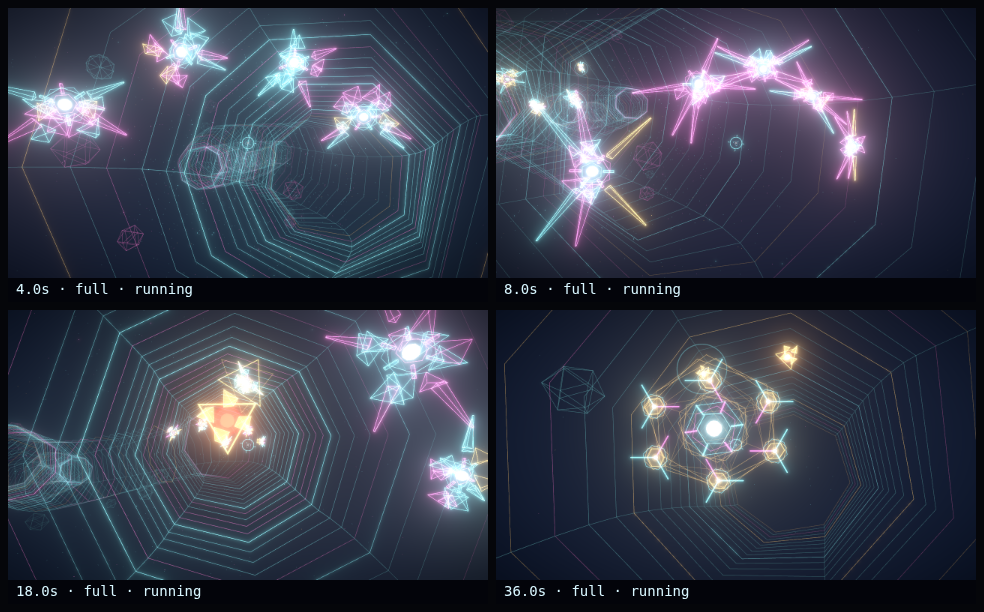
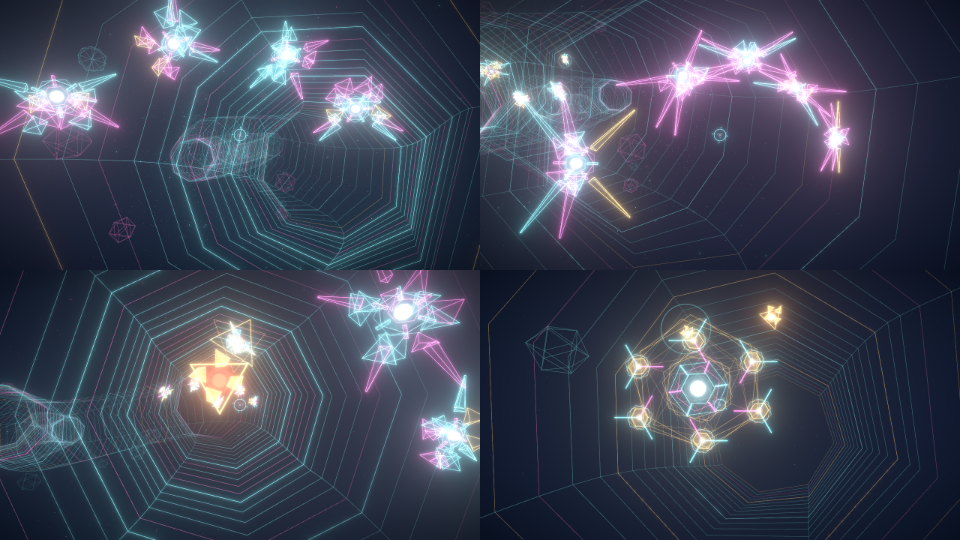
Add unlabeled gameplay thumbnail sheets

diff --git a/docs/visual-tools.md b/docs/visual-tools.md
@@ -151,12 +151,12 @@ By default the tool drives a simple perfect lock-on policy, then warns when a ta
 
 ## Level content image sets
 
-A public level showcase can carry three optional images: `overview` is a four-frame contact sheet, `start` is the attract screen, and `hero` is the strongest single gameplay frame. Store them under `public/level-content/<level-id>/` and expose their paths through `contentImages` on the level catalog metadata (or the benchmark `level.json` descriptor). For Crystal Corridor, the checked-in set is `public/level-content/crystal-corridor/`.
+A public level showcase can carry three optional images: `overview` is a four-frame contact sheet, `start` is the attract screen, and `hero` is the strongest single gameplay frame. Store them under `public/level-content/<level-id>/` and expose their paths through `contentImages` on the level catalog metadata (or the benchmark `level.json` descriptor). For an image-only contact sheet, add `--no-labels`; add `--no-borders` as well to remove the gutters between and around thumbnails. The default keeps timing, fidelity labels, and gutters for inspection. For Crystal Corridor, the checked-in set is `public/level-content/crystal-corridor/`.
 
 A reproducible Crystal set can be regenerated with:
 
 ```sh
-npm run snapshot:gameplay -- --level crystal --sheet --times 4,8,18,36 --thumb-width 480 --columns 2 --out /tmp/crystal-content --fidelity full --seed 424242
+npm run snapshot:gameplay -- --level crystal --sheet --times 4,8,18,36 --thumb-width 480 --columns 2 --no-labels --no-borders --out /tmp/crystal-content --fidelity full --seed 424242
 npm run snapshot:gameplay -- --level crystal --start-screen --time 0.8 --out /tmp/crystal-content --fidelity full --seed 424242
 npm run snapshot:gameplay -- --level crystal --time 36 --out /tmp/crystal-content --fidelity full --seed 424242
 ```